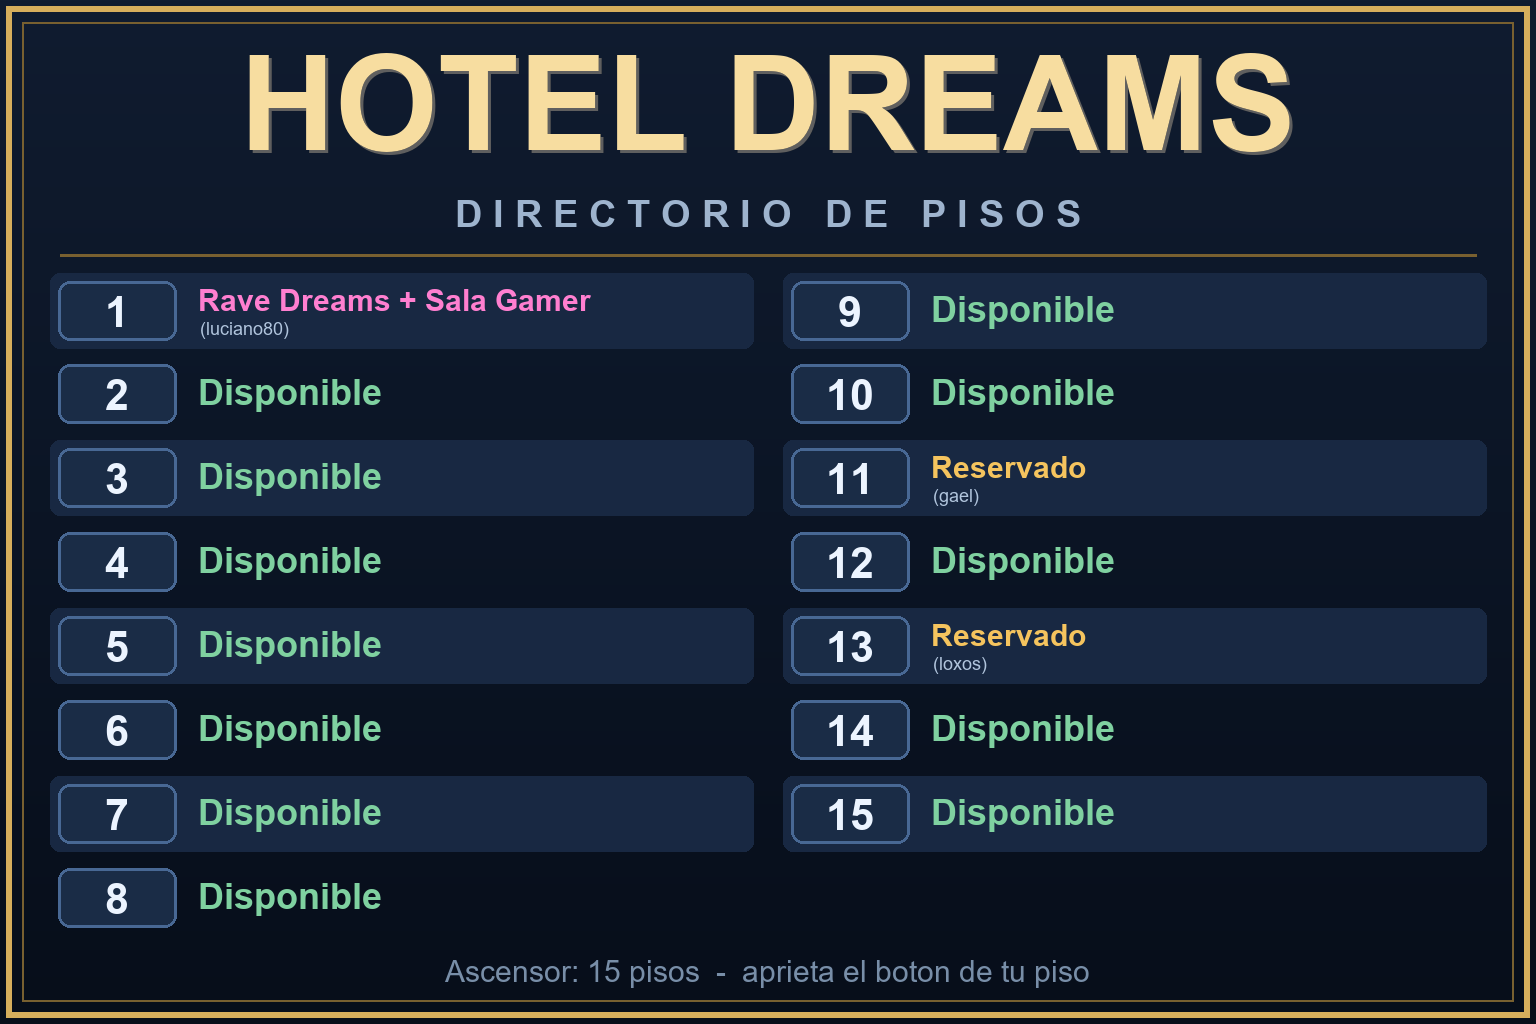
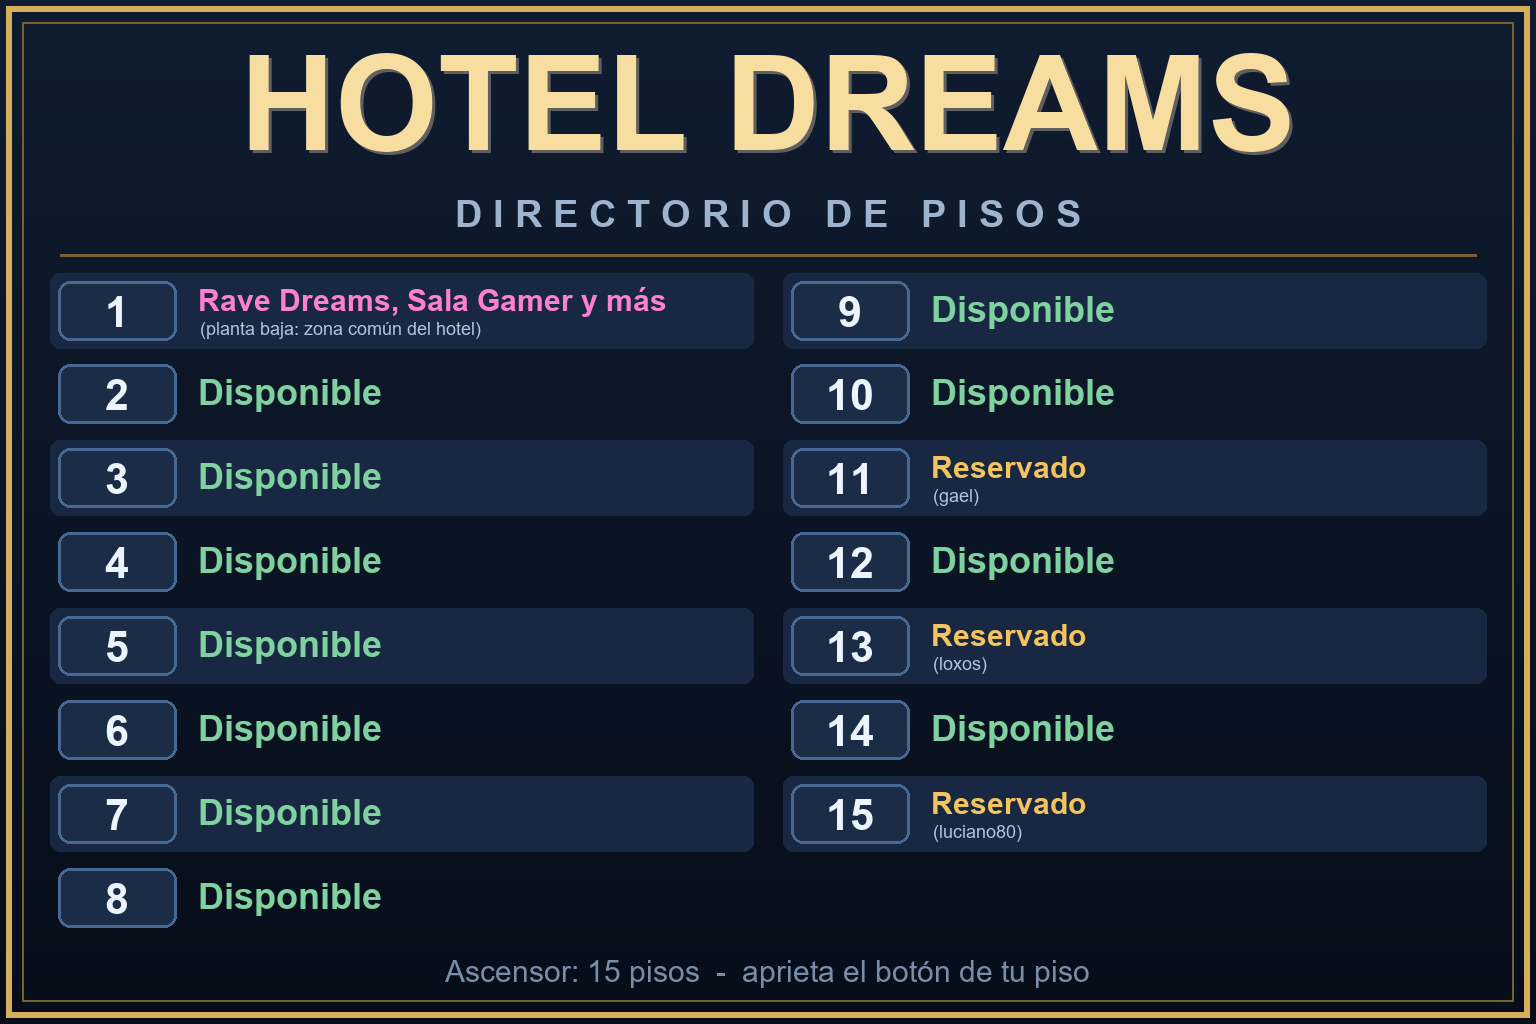
fix(valdivia): corrige el directorio del cartel (piso 15 = luciano80)
Piso 15 pasa a reservado por luciano80; el piso 1 queda como lo que es hoy:
la planta baja con Rave Dreams, la sala gamer y el resto de la zona comun.

Claude-Session: https://claude.ai/code/session_01T5pKCi64Pj6ttEV2fXV5pX

Changed region(s): [[0.125, 0.2812, 0.4375, 0.3438], [0.5938, 0.7812, 0.7188, 0.8438]]

diff --git a/docs/02-VALDIVIA-30001/hotel-dreams-cartel.md b/docs/02-VALDIVIA-30001/hotel-dreams-cartel.md
@@ -13,12 +13,13 @@ cartel te dice adónde.
 
 | Piso | Qué hay | Estado |
 |---|---|---|
-| 1 | Rave Dreams + Sala Gamer (`luciano80`) | fiesta |
+| 1 | Rave Dreams, Sala Gamer y más — planta baja, zona común | fiesta |
 | 2–10 | Disponible | libre |
 | 11 | Reservado (`gael`) | reservado |
 | 12 | Disponible | libre |
 | 13 | Reservado (`loxos`) | reservado |
-| 14–15 | Disponible | libre |
+| 14 | Disponible | libre |
+| 15 | Reservado (`luciano80`) | reservado |
 
 La tabla **no se edita en Lua**: vive en
 `server/mods/valdivia_hotel_cartel/pisos.json`, que es la fuente única que leen
